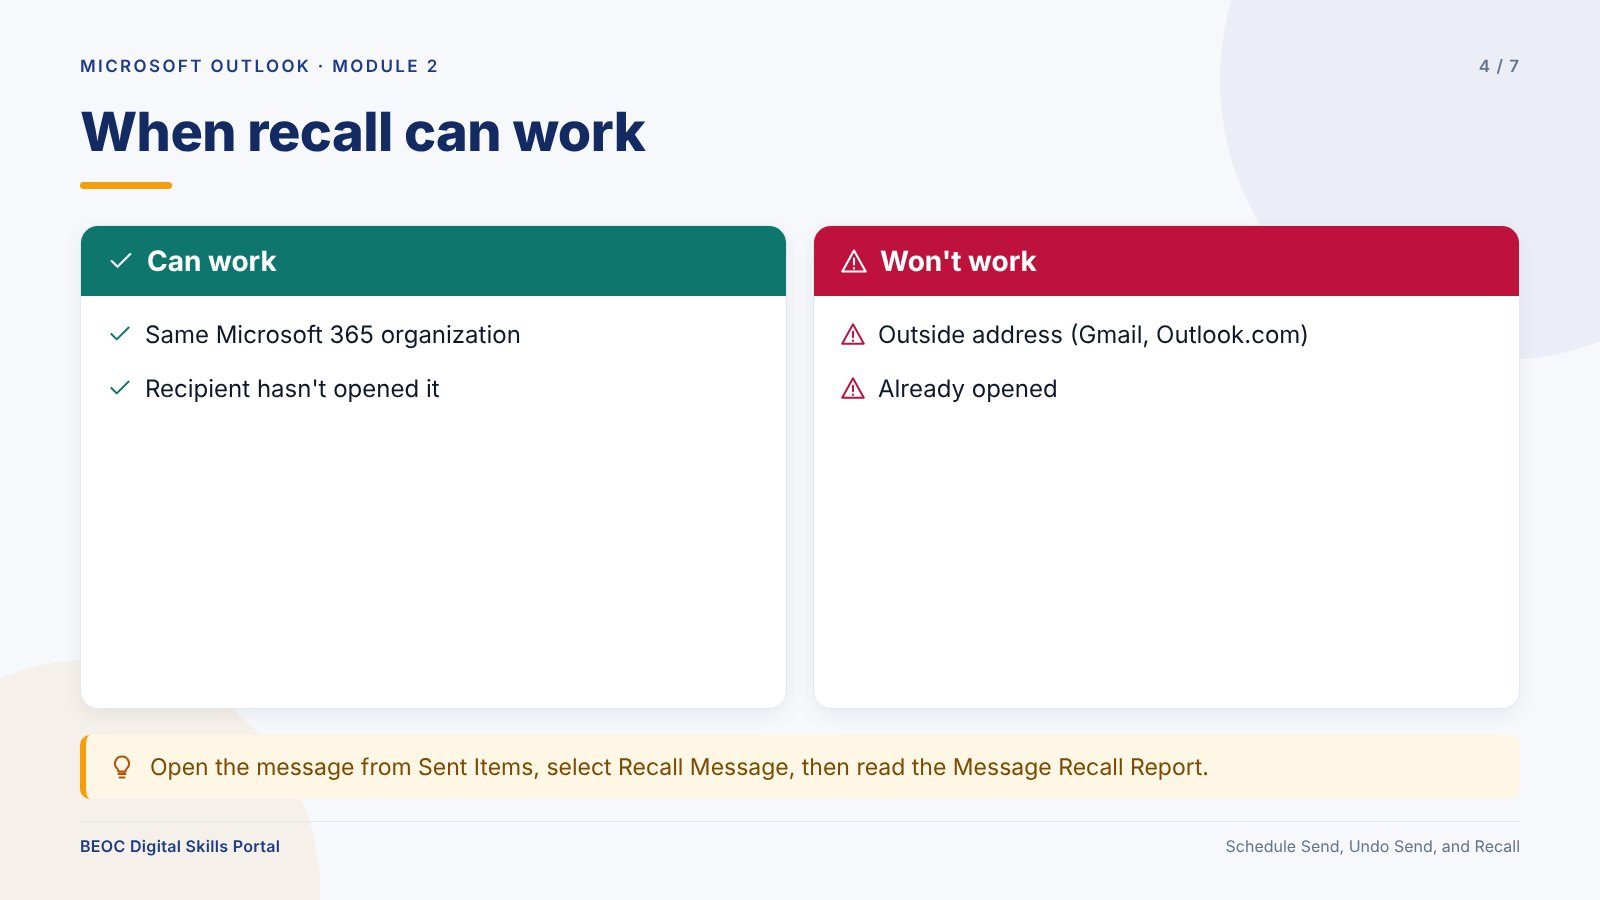
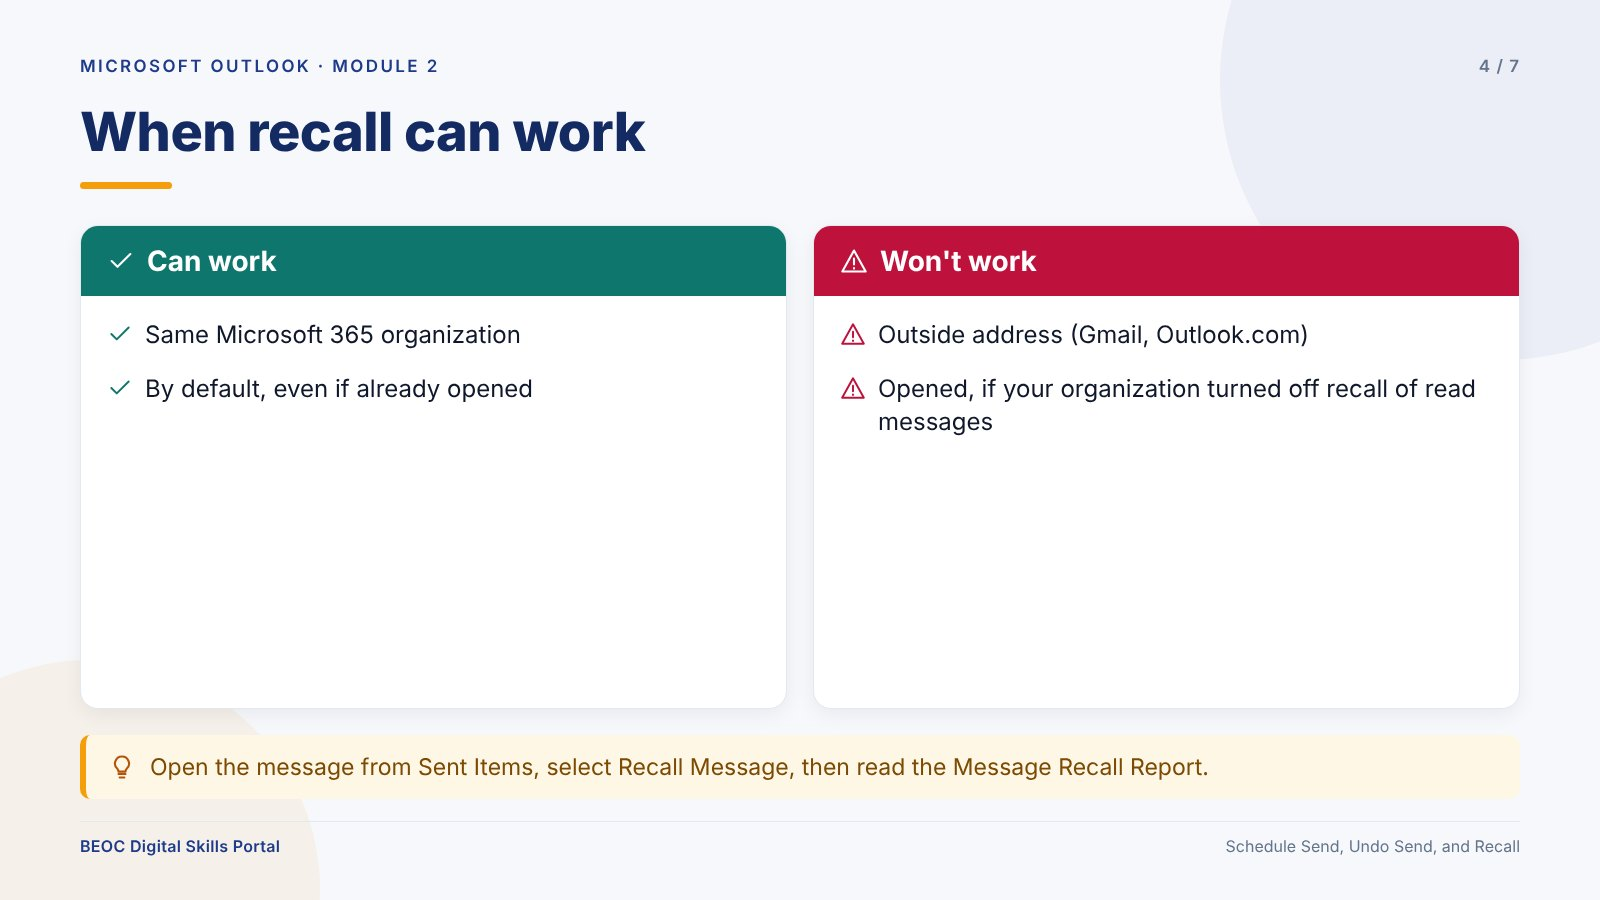
Fix lesson facts that block video generation: New Sheet button, #REF!, PowerPoint numbering and Track Changes, Access Indeterminate, Outlook recall of read messages, Excel text dates
Excel: New Sheet (+) is just right of the sheet tabs; #REF! comes from deleted sheets or cells, and a nonexistent sheet name opens a find-file dialog.
PowerPoint: numbering does not continue across slides (set Start At); lesson description no longer promises Track Changes.
Access: Indeterminate means neither field is a primary key or uniquely indexed; mismatched data types block referential integrity.
Outlook: cloud-based Message Recall recalls read messages by default unless the organization turns it off (lesson table, explanations, slide 4 re-rendered).
Intro to Database: real dates are right-aligned and text dates left-aligned (not blue/black); formatting alone does not convert text to dates.

Claude-Session: https://claude.ai/code/session_014ANEAbLYe3jdN98HLeHymF

Changed region(s): [[0.5312, 0.4044, 0.9062, 0.4978], [0.0938, 0.4044, 0.3438, 0.4667]]

diff --git a/lib/content/office-assistant/intro-database/module2Lessons.ts b/lib/content/office-assistant/intro-database/module2Lessons.ts
@@ -66,7 +66,7 @@ export const module2Lessons: Lesson[] = [
             type: "list",
             items: [
               "Merged cells — merged cells are the enemy of data analysis. They prevent sorting, filtering, and formula referencing from working correctly. In a data table, never use merged cells. Unmerge all cells in the data area: select the data, Home > Alignment > Merge & Center dropdown > Unmerge Cells.",
-              "Mixed data types in date columns — a Date of Birth column with some entries as dates (displaying in blue as 1/22/1978) and others as text (displaying in black as '01/22/1978' or 'January 22, 1978') will not sort correctly and cannot be used in date calculations. Select the entire column and apply a consistent date format: Home > Number > Short Date.",
+              "Mixed data types in date columns — a Date of Birth column with some entries as real dates (right-aligned by default, like 1/22/1978) and others as text (left-aligned, sometimes with a small green triangle in the corner, like '01/22/1978' or 'January 22, 1978') will not sort correctly and cannot be used in date calculations. Changing the format alone does not turn text into dates: convert the text entries with the DATEVALUE function, then apply a consistent date format: Home > Number > Short Date.",
               "Subtotals or summary rows mixed into the data — some spreadsheets have monthly subtotals inserted within the data range (a row saying 'January Total: $12,450' between January and February data). These rows break every analysis tool. Move summary rows below the main data table, or better, generate them with a PivotTable.",
               "Invisible leading or trailing spaces — text cells that look identical ('BlueCross' and 'BlueCross ' with a trailing space) are treated as different values by filtering, VLOOKUP, and sorting. Use the TRIM function to remove extra spaces: create a helper column with =TRIM(A2) and paste values over the original column.",
             ],
@@ -97,10 +97,10 @@ export const module2Lessons: Lesson[] = [
         blocks: [
           {
             type: "knowledge-check",
-            question: "A column in your patient spreadsheet shows some dates in blue (date format) and some in black (text format). When you sort by this column, the dates are not in chronological order. What is the problem and how do you fix it?",
+            question: "A column in your patient spreadsheet shows some dates right-aligned and some left-aligned. When you sort by this column, the dates are not in chronological order. What is the problem and how do you fix it?",
             options: [
               "The sort direction is wrong — change from A to Z to Z to A",
-              "The column has mixed data types (some dates, some text strings that look like dates). Select the column and apply a consistent Date format to convert all entries to true dates.",
+              "The column has mixed data types (some dates, some text strings that look like dates). Convert the text entries to true dates (for example, with DATEVALUE), then apply one consistent Date format.",
               "The column needs to be converted to a Table before sorting works",
               "The dates in text format need to be moved to a separate column",
             ],

diff --git a/lib/content/ms-office/outlook/module2Lessons.ts b/lib/content/ms-office/outlook/module2Lessons.ts
@@ -739,7 +739,7 @@ export const outlookModule2Lessons: Lesson[] = [
             columns: ["Recall can work when...", "Recall won't work when..."],
             rows: [
               ["You and the recipient have Microsoft 365 work or school accounts in the same organization", "The recipient is outside your organization, or uses Gmail, Outlook.com or another service"],
-              ["The recipient hasn't opened the message yet", "The recipient already opened it"],
+              ["By default, even if the recipient already opened the message", "The recipient opened it and your organization turned off recall of read messages"],
             ],
           },
           {
@@ -763,7 +763,7 @@ export const outlookModule2Lessons: Lesson[] = [
               { id: "t3", text: "Recall Message", match: "A coworker in your office got a message meant for someone else, and hasn't opened it" },
               { id: "t4", text: "Tell your supervisor", match: "Patient information went to an outside address by mistake" },
             ],
-            explanation: "Undo send covers the first seconds. Schedule send controls timing. Recall can help only inside your organization and only for unopened messages. A privacy mistake always goes to your supervisor.",
+            explanation: "Undo send covers the first seconds. Schedule send controls timing. Recall can help only inside your organization. A privacy mistake always goes to your supervisor.",
           },
         ],
       },
@@ -791,9 +791,9 @@ export const outlookModule2Lessons: Lesson[] = [
             explanation: "Recall needs both people to have Microsoft 365 work or school accounts in the same organization. Report the mistake to your supervisor.",
             optionRationales: [
               "Recall has requirements and often fails.",
-              "Being unopened is necessary but not enough; the recipient must be in your organization.",
+              "Whether they opened it is not the issue here; the recipient must be in your organization.",
               "Correct.",
-              "Recall has no time window like this; the requirements are the organization and whether it was opened.",
+              "An hour is not the rule; what matters is that the recipient is in your organization.",
             ],
           },
         ],

diff --git a/lib/content/ms-office/access/module2Lessons.ts b/lib/content/ms-office/access/module2Lessons.ts
@@ -167,7 +167,7 @@ export const accessModule2Lessons: Lesson[] = [
               },
               {
                 move: "Confirm Access reports the relationship as One-To-Many.",
-                why: "If it says One-To-One, the foreign key has a unique index on it and each patient could have only one appointment. If it says Indeterminate, the fields are different data types — usually a Number joined to a Short Text — and integrity cannot be enforced until you fix that.",
+                why: "If it says One-To-One, the foreign key has a unique index on it and each patient could have only one appointment. If it says Indeterminate, neither field is a primary key or uniquely indexed; check that you dragged from the primary key. If the two fields are different data types, Access will refuse to enforce integrity until you make them match (an AutoNumber key pairs with a Number field set to Long Integer).",
               },
               {
                 move: "Test it: try to enter an appointment with a PatientID that does not exist.",

diff --git a/lib/content/ms-office/powerpoint/module8Lessons.ts b/lib/content/ms-office/powerpoint/module8Lessons.ts
@@ -6,7 +6,7 @@ export const powerpointModule8Lessons: Lesson[] = [
   slug: "checking-spelling-and-comments",
   title: "Checking Spelling & Using Comments",
   description:
-    "Learn how to run a spell check, use the built-in thesaurus, add and review comments, and use Track Changes tools to collaborate and polish your presentation before delivery.",
+    "Learn how to run a spell check, use the built-in thesaurus, and add and review comments to collaborate and polish your presentation before delivery.",
   objectives: [
     "Run spell check across a presentation",
     "Add, reply to, and resolve comments",

diff --git a/lib/content/ms-office/powerpoint/module2Lessons.ts b/lib/content/ms-office/powerpoint/module2Lessons.ts
@@ -470,12 +470,12 @@ blocks: [
 {
 type: "paragraph",
 text:
-"When you create numbered lists across multiple slides or sections, PowerPoint can continue numbering automatically.",
+"PowerPoint does not continue numbering from one slide to the next; each slide's list starts at 1.",
 },
 {
 type: "paragraph",
 text:
-"You can adjust where numbering starts by opening the Bullets and Numbering dialog box and changing the Start At value.",
+"To continue a list on a new slide, open the Bullets and Numbering dialog box and set Start At to the next number.",
 },
 {
 type: "image",

diff --git a/lib/content/ms-office/excel/module4Lessons.ts b/lib/content/ms-office/excel/module4Lessons.ts
@@ -702,7 +702,7 @@ export const excelModule4Lessons: Lesson[] = [
         {
           type: "paragraph",
           text:
-            "If the sheet name or cell reference is incorrect, Excel will return a #REF! error.",
+            "If the referenced sheet or cells are later deleted, the formula shows a #REF! error; if you type a sheet name that does not exist, Excel opens a dialog asking you to find a file.",
         },
         {
           type: "image",

diff --git a/lib/content/ms-office/excel/module3Lessons.ts b/lib/content/ms-office/excel/module3Lessons.ts
@@ -77,7 +77,7 @@ export const excelModule3Lessons: Lesson[] = [
           type: "list",
           ordered: true,
           items: [
-            "Locate and select the New Sheet (+) button near the bottom-right corner of the Excel window.",
+            "Select the New Sheet (+) button just to the right of the sheet tabs at the bottom of the window.",
             "A new blank worksheet will appear.",
           ],
         },
